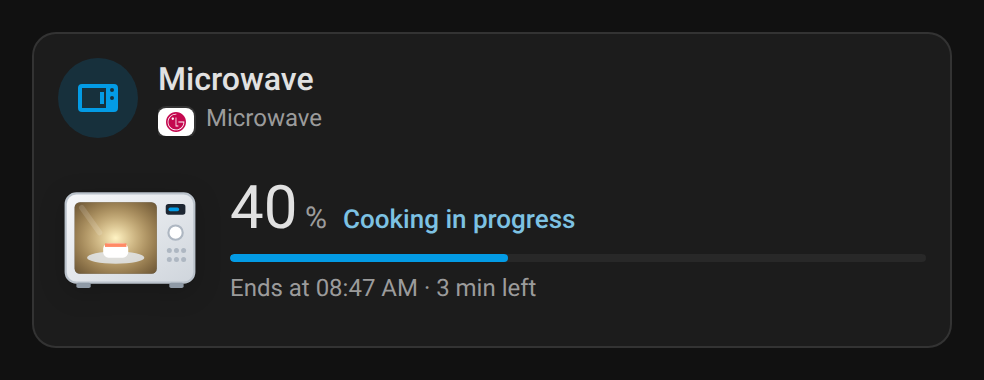
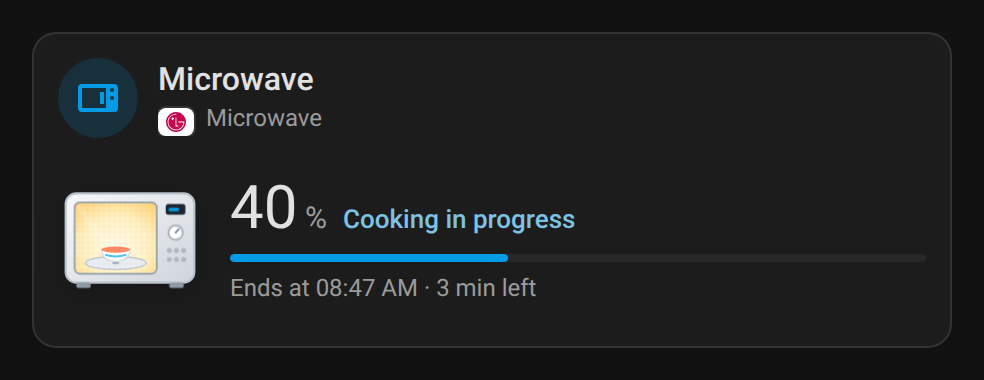
fix: nicer microwave running animation (#60)
## Animation du micro-ondes en cuisson

L'animation « running » du micro-ondes n'était pas belle : l'assiette et
le plat étaient retournés en `scaleX`, donc écrasés en un trait deux
fois par tour, sous une lueur brun terne.

### Nouvelle animation
- intérieur éclairé d'une lumière chaude et claire, avec une légère
pulsation ;
- bol posé un peu décentré sur le plateau tournant : il décrit une
ellipse aplatie, un peu plus petit au fond, comme en vrai ; un repère
sur le plateau tourne avec lui ;
- vapeur qui monte du bol, micro-ondes qui scintillent sur les côtés ;
- grille de la porte et reflet sur la vitre ; bouton minuterie avec son
index.
- À l'arrêt : vitre sombre, plateau et bol visibles.
`prefers-reduced-motion` coupe toujours les animations.

Version **2.0.3**, CHANGELOG à jour.

### Tests
`npm run check`, `npm test` (75/75), pre-commit (Biome) et jscpd (0
clone) passent. Les GIF de captures sont régénérés par la CI.

---
_Generated by [Claude
Code](https://claude.ai/code/session_01F4sAn1iacsdzdHfH66PTH1)_

---------

Changed region(s): [[0.061, 0.5211, 0.1829, 0.7237]]

diff --git a/src/smart-appliance-card.js b/src/smart-appliance-card.js
@@ -2882,19 +2882,31 @@ var HC_ART = {
     '<g class="heat" fill="none" stroke="#ffccbc" stroke-width="1.3" stroke-linecap="round" opacity=".8"><path d="M18 48q-2-3 0-6t0-6"/>' +
     '<path d="M24 48q-2-3 0-6t0-6"/><path d="M53 34q-2-3 0-6t0-6"/></g>' +
     '<path d="M16 32h20" stroke="#fff" stroke-opacity=".18" stroke-width="2" stroke-linecap="round"/></svg>',
-  // Microwave: the inside lights up and the plate turns.
+  // Microwave: the inside lights up warm, the bowl turns on the plate and steams.
   microwave: '<svg viewBox="0 0 80 94" aria-hidden="true"><defs><linearGradient id="hc-mb" x1="0" y1="0" x2="1" y2="1"><stop offset="0" stop-color="#f7f8fa"/>' +
-    '<stop offset="1" stop-color="#cfd5dc"/></linearGradient><radialGradient id="hc-mg" cx=".5" cy=".5" r=".7"><stop offset="0" stop-color="#fff3c4"/>' +
-    '<stop offset="1" stop-color="#ffb74d" stop-opacity=".35"/></radialGradient></defs>' +
+    '<stop offset="1" stop-color="#cfd5dc"/></linearGradient><radialGradient id="hc-mg" cx=".5" cy=".62" r=".75"><stop offset="0" stop-color="#fffbea"/>' +
+    '<stop offset=".55" stop-color="#fff0c2"/><stop offset="1" stop-color="#ffd27a"/></radialGradient>' +
+    '<pattern id="hc-mm" width="3" height="3" patternUnits="userSpaceOnUse"><circle cx="1.5" cy="1.5" r=".45" fill="#8a6a2a" opacity=".12"/></pattern>' +
+    '<clipPath id="hc-mc"><rect x="9" y="27" width="46" height="40" rx="3"/></clipPath></defs>' +
     '<rect x="4" y="22" width="72" height="50" rx="6" fill="url(#hc-mb)" stroke="#bac2cb" stroke-width="1.2"/>' +
-    '<rect x="9" y="27" width="46" height="40" rx="3" fill="#1b222b"/><rect class="mwlight" x="9" y="27" width="46" height="40" rx="3" fill="url(#hc-mg)"/>' +
-    '<g class="plate"><ellipse cx="32" cy="58" rx="16" ry="3.4" fill="#e3e7ec" opacity=".85"/>' +
-    '<rect x="25" y="50" width="14" height="8" rx="3" fill="#ffffff"/><path d="M26 51h12" stroke="#ff8a65" stroke-width="2"/></g>' +
+    '<rect x="9" y="27" width="46" height="40" rx="3" fill="#1b222b"/><g clip-path="url(#hc-mc)">' +
+    '<rect class="mwlight" x="9" y="27" width="46" height="40" fill="url(#hc-mg)"/>' +
+    '<g class="waves" fill="none" stroke="#e0a83a" stroke-width="1" stroke-linecap="round"><path d="M14 34q2 2 0 4t0 4"/><path d="M50 34q2 2 0 4t0 4"/></g>' +
+    '<ellipse cx="32" cy="61" rx="17" ry="3.6" fill="#e9edf1" stroke="#c4ccd5" stroke-width=".8"/>' +
+    '<ellipse class="mark" cx="32" cy="61" rx="2" ry=".7" fill="#aab4bf"/><g class="food">' +
+    '<path d="M24 53.5h16q-.6 6.5-8 6.5t-8-6.5z" fill="#fff" stroke="#d3d9e0" stroke-width=".6"/>' +
+    '<ellipse cx="32" cy="53.5" rx="8" ry="1.7" fill="#ff8a65"/>' +
+    '<path d="M26.5 56.5q5.5 1.6 11 0" stroke="#4fc3f7" stroke-width="1.1" fill="none" stroke-linecap="round"/></g>' +
+    '<g class="heat" fill="none" stroke="#d9a441" stroke-width="1.2" stroke-linecap="round"><path d="M29 49q-1.6-2.2 0-4.4t0-4.4"/>' +
+    '<path d="M32.5 48q-1.6-2.2 0-4.4t0-4.4"/><path d="M36 49q-1.6-2.2 0-4.4t0-4.4"/></g><rect x="9" y="27" width="46" height="40" fill="url(#hc-mm)"/>' +
+    '<path d="M12 30l12 17" stroke="#fff" stroke-opacity=".16" stroke-width="3.5" stroke-linecap="round"/></g>' +
+    '<rect x="9" y="27" width="46" height="40" rx="3" fill="none" stroke="#9aa5b1" stroke-width="1"/>' +
     '<rect x="60" y="28" width="11" height="6" rx="1.5" fill="#1d2632"/><rect class="led" x="61.5" y="30" width="6" height="2" rx="1"/>' +
-    '<circle cx="65.5" cy="44" r="4" fill="#fff" stroke="#aeb7c2" stroke-width="1.2"/><g fill="#aeb7c2"><circle cx="62" cy="54" r="1.4"/>' +
+    '<circle cx="65.5" cy="44" r="4" fill="#fff" stroke="#aeb7c2" stroke-width="1.2"/>' +
+    '<path d="M65.5 44l1.8-2" stroke="#7d8894" stroke-width="1" stroke-linecap="round"/><g fill="#aeb7c2"><circle cx="62" cy="54" r="1.4"/>' +
     '<circle cx="66" cy="54" r="1.4"/><circle cx="70" cy="54" r="1.4"/><circle cx="62" cy="59" r="1.4"/><circle cx="66" cy="59" r="1.4"/>' +
-    '<circle cx="70" cy="59" r="1.4"/></g><path d="M13 30l10 14" stroke="#fff" stroke-opacity=".14" stroke-width="3" stroke-linecap="round"/>' +
-    '<rect x="10" y="72" width="8" height="3" rx="1" fill="#8f9aa6"/><rect x="62" y="72" width="8" height="3" rx="1" fill="#8f9aa6"/></svg>',
+    '<circle cx="70" cy="59" r="1.4"/></g><rect x="10" y="72" width="8" height="3" rx="1" fill="#8f9aa6"/>' +
+    '<rect x="62" y="72" width="8" height="3" rx="1" fill="#8f9aa6"/></svg>',
   // Freezer: frost sparkles and cold air flows while super freeze runs.
   freezer: '<svg viewBox="0 0 80 94" aria-hidden="true"><defs><linearGradient id="hc-zb" x1="0" y1="0" x2="1" y2="0"><stop offset="0" stop-color="#e3e7ec"/>' +
     '<stop offset=".5" stop-color="#ffffff"/><stop offset="1" stop-color="#d5dbe2"/></linearGradient></defs>' +
@@ -3608,12 +3620,18 @@ class HomeConnectBaseCard extends HTMLElement {
       '@keyframes hc-pour { 0%, 100% { opacity: 0; } 20%, 80% { opacity: 1; } }' +
       '@keyframes hc-fill { 0% { transform: scaleY(.4); } 70%, 100% { transform: scaleY(3.4); } }' +
       '.picture .zones { opacity: 0; transition: opacity .6s; } .picture .mwlight { opacity: 0; transition: opacity .6s; }' +
-      '.picture .plate, .picture .sway { transform-box: view-box; } .picture .plate { transform-origin: 32px 58px; } .picture .sway { transform-origin: 40px 16px; }' +
+      '.picture .food, .picture .mark, .picture .sway { transform-box: view-box; } .picture .food, .picture .mark { transform-origin: 32px 58px; } .picture .sway { transform-origin: 40px 16px; }' +
+      '.picture .waves path { opacity: 0; }' +
       '.picture.running .zones { opacity: 1; animation: hc-glow 1.6s ease-in-out infinite alternate; }' +
-      '.picture.running .mwlight { opacity: 1; animation: hc-glow 2s ease-in-out infinite alternate; }' +
-      '.picture.running .plate { animation: hc-turn 3s ease-in-out infinite; }' +
+      '.picture.running .mwlight { opacity: 1; animation: hc-hum 2.4s ease-in-out infinite alternate; }' +
+      '.picture.running .food { animation: hc-orbit 4s linear infinite; } .picture.running .mark { animation: hc-mark 4s linear infinite; }' +
+      '.picture.running .waves path { animation: hc-zap 1.2s ease-in-out infinite; } .picture.running .waves path:nth-child(2) { animation-delay: .6s; }' +
       '.picture.running .sway { animation: hc-sway 2.4s ease-in-out infinite; }' +
-      '@keyframes hc-turn { 0%, 100% { transform: scaleX(1); } 50% { transform: scaleX(-1); } }' +
+      // The bowl sits off-centre on the turntable: it circles a flattened ellipse, a little smaller at the back.
+      '@keyframes hc-orbit { 0.0% { transform: translate(0.00px, -1.10px) scale(0.950); } 8.33% { transform: translate(1.75px, -0.95px) scale(0.957); } 16.67% { transform: translate(3.03px, -0.55px) scale(0.975); } 25.0% { transform: translate(3.50px, -0.00px) scale(1.000); } 33.33% { transform: translate(3.03px, 0.55px) scale(1.025); } 41.67% { transform: translate(1.75px, 0.95px) scale(1.043); } 50.0% { transform: translate(0.00px, 1.10px) scale(1.050); } 58.33% { transform: translate(-1.75px, 0.95px) scale(1.043); } 66.67% { transform: translate(-3.03px, 0.55px) scale(1.025); } 75.0% { transform: translate(-3.50px, 0.00px) scale(1.000); } 83.33% { transform: translate(-3.03px, -0.55px) scale(0.975); } 91.67% { transform: translate(-1.75px, -0.95px) scale(0.957); } 100.0% { transform: translate(-0.00px, -1.10px) scale(0.950); } }' +
+      '@keyframes hc-mark { 0.0% { transform: translate(0.00px, -2.60px); opacity: 0.80; } 8.33% { transform: translate(7.00px, -2.25px); opacity: 0.77; } 16.67% { transform: translate(12.12px, -1.30px); opacity: 0.69; } 25.0% { transform: translate(14.00px, -0.00px); opacity: 0.57; } 33.33% { transform: translate(12.12px, 1.30px); opacity: 0.46; } 41.67% { transform: translate(7.00px, 2.25px); opacity: 0.38; } 50.0% { transform: translate(0.00px, 2.60px); opacity: 0.35; } 58.33% { transform: translate(-7.00px, 2.25px); opacity: 0.38; } 66.67% { transform: translate(-12.12px, 1.30px); opacity: 0.46; } 75.0% { transform: translate(-14.00px, 0.00px); opacity: 0.57; } 83.33% { transform: translate(-12.12px, -1.30px); opacity: 0.69; } 91.67% { transform: translate(-7.00px, -2.25px); opacity: 0.77; } 100.0% { transform: translate(-0.00px, -2.60px); opacity: 0.80; } }' +
+      '@keyframes hc-hum { from { opacity: .9; } to { opacity: 1; } }' +
+      '@keyframes hc-zap { 0%, 100% { opacity: 0; } 50% { opacity: .55; } }' +
       '@keyframes hc-sway { 0%, 100% { transform: rotate(-3deg); } 50% { transform: rotate(3deg); } }' +
       '@media (prefers-reduced-motion: reduce) { .picture.running *, .pbadge, .pbadge *, .sparkles path { animation: none !important; } .sparkles path { opacity: 1; } .picture.running .floor { opacity: 1; } }' +
       '.badge { width: 56px; height: 56px; border-radius: 50%; display: flex; align-items: center; justify-content: center;' +

diff --git a/CHANGELOG.md b/CHANGELOG.md
@@ -1,5 +1,10 @@
 # Changelog
 
+## 2.0.3 - 2026-11-04
+
+### Fixes
+- Microwave picture while cooking: the plate and the food no longer flip and squash to a line. The inside lights up warm, the bowl circles the turntable, steam rises and microwaves flicker at the sides.
+
 ## 2.0.2 - 2026-11-04
 
 ### Changes
